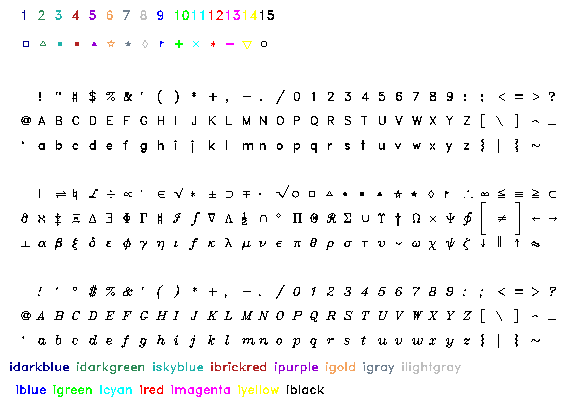
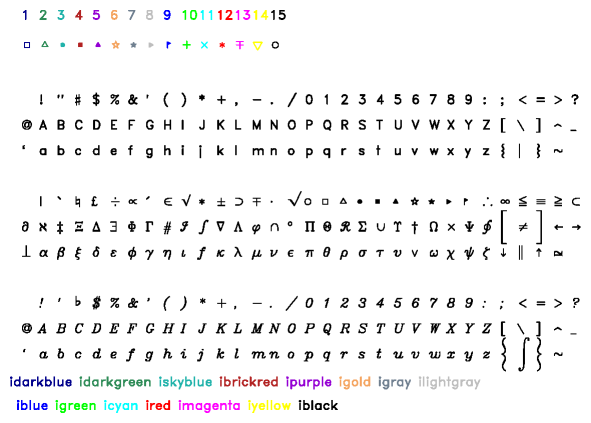
Updated the fontdata block data to include a varphi in greek.

diff --git a/RefManual.tex b/RefManual.tex
@@ -325,20 +325,21 @@ at levels zclv(icl). If icl=0 fit contour levels instead. If icl.lt.0 no
 line labels. Cworka is a work character array at least (ixm, iym).
 
 CONTOURL(za,cworka,iLdim,ixm,iym,zclv,icl,x,y,icsw) General contour
-za(1:ixm(of ildim), iym) at zclv(icl) (or fit if icl=0, using zclv(1)
-if non-zero to determine contour number) on a mesh defined by
-x,y. Switch icsw determines call type: 0 equal spacing, x,y not used;
-1 vectors x,y determine mesh; 2 arrays x,y determine mesh; bit 5 (16)
-sets coloring; bit 6 (32) omits contour lines; bit 7 (64) color-fills
-with triangle gradients, in which case non-zero second byte (*256)
-determines the step size of the gradients (1 by default). Color
-gradient contouring should be done with icl .ge. 2 and the maximum and
-minimum values in zclv(1) and zclv(icl). Then a gradlegend can be
-constructed with these values.  Third byte (*65536) if non-zero sets
-filling of (usually one level of) closed contour by the integer color
-to which it corresponds, and turns off contour lines (which might
-therefore have to be drawn later on top). Contour filling doesn't work
-perfectly for contours that intersect more than one border.
+za(1:ixm(of ildim), iym) at zclv(icl). If icl=0, or icl$<$-998, fit
+contours using zclv(1) if non-zero to determine contour number. On a
+mesh defined by x,y. Switch icsw determines call type: 0 equal
+spacing, x,y not used; 1 vectors x,y determine mesh; 2 arrays x,y
+determine mesh; bit 5 (16) sets coloring; bit 6 (32) omits contour
+lines; bit 7 (64) color-fills with triangle gradients, in which case
+non-zero second byte (*256) determines the step size of the gradients
+(1 by default). Color gradient contouring should be done with icl
+.ge. 2 and the maximum and minimum values in zclv(1) and
+zclv(icl). Then a gradlegend can be constructed with these values.
+Third byte (*65536) if non-zero sets filling of (usually one level of)
+closed contour by the integer color to which it corresponds, and turns
+off contour lines (which might therefore have to be drawn later on
+top). Contour filling doesn't work perfectly for contours that
+intersect more than one border.
 
 CONT3PROJ(za,cworka,iLdim,ixm,iym,zclv,icl,x,y,icsw,f) Draw a contour
 plot projected on to the z=f*scbz3 (constant) plane of a 3-D
